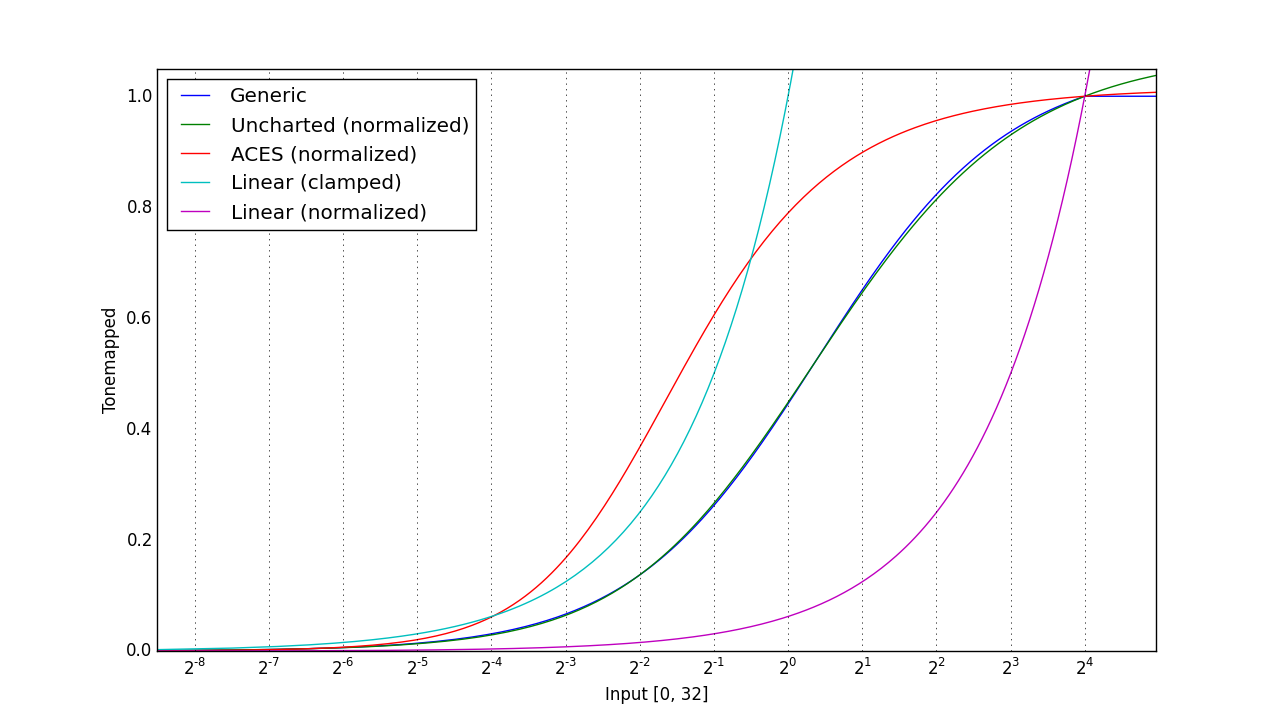
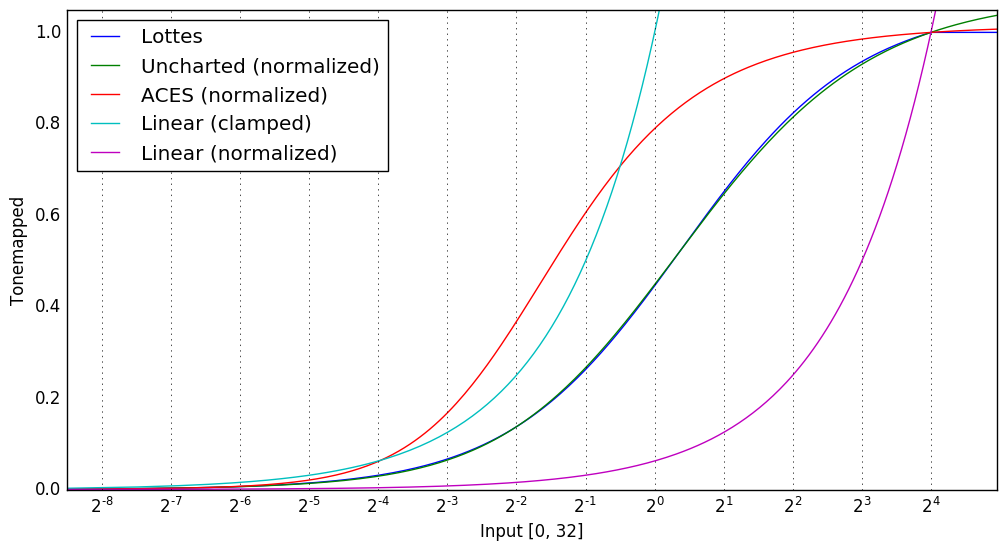
Made plot a bit tighter

diff --git a/tonemapper.py b/tonemapper.py
@@ -2,7 +2,7 @@ import matplotlib.pyplot as plt
 import math
 import numpy
 
-# Generic like in http://32ipi028l5q82yhj72224m8j.wpengine.netdna-cdn.com/wp-content/uploads/2016/03/GdcVdrLottes.pdf
+# Lottes Generic like in http://32ipi028l5q82yhj72224m8j.wpengine.netdna-cdn.com/wp-content/uploads/2016/03/GdcVdrLottes.pdf
 # but with corrections like in https://bartwronski.com/2016/09/01/dynamic-range-and-evs/comment-page-1/#comment-2360
 
 # Setting similar to Uncharted:
@@ -11,7 +11,7 @@ import numpy
 # mid_in = 0.33
 # mid_out = 0.18
 
-def generic(x, hdr_max):
+def lottes(x, hdr_max):
     a = 1.15 # contrast
     d = 0.995 # shoulder
 
@@ -63,10 +63,10 @@ def normalized_linear(x, hdr_max):
     return x / hdr_max
 
 # Plot the tonemapping curves
-plt.figure(figsize=(12.8, 7.2), dpi=120)
+plt.figure(figsize=(12, 6))
 
 color_in = []
-color_generic = []
+color_lottes = []
 color_uncharted = []
 color_aces = []
 color_linear = []
@@ -76,14 +76,14 @@ hdr_max = 16.0
 for x in numpy.logspace(-3, 5, num=256, base=2):
     color = x - math.pow(2, -3)
     color_in.append(color)
-    color_generic.append(generic(color, hdr_max))
+    color_lottes.append(lottes(color, hdr_max))
     #color_uncharted.append(uncharted(color))
     color_uncharted.append(normalized_uncharted(color, hdr_max))
     #color_aces.append(aces(color))
     color_aces.append(normalized_aces(color, hdr_max))
     color_linear.append(normalized_linear(color, hdr_max))
 
-plt.semilogx(color_in, color_generic, basex=2, label='Generic')
+plt.semilogx(color_in, color_lottes, basex=2, label='Lottes')
 plt.plot(color_in, color_uncharted, label='Uncharted (normalized)')
 plt.plot(color_in, color_aces, label='ACES (normalized)')
 plt.plot(color_in, color_in, label='Linear (clamped)')
@@ -94,13 +94,14 @@ plt.legend(loc=2)
 plt.xlabel('Input [0, 32]')
 plt.ylabel('Tonemapped')
 
-ax = plt.axes() 
+ax = plt.axes()
+
 ax.xaxis.grid()
 ax.tick_params(which='both', # Options for both major and minor ticks
                top='off', # turn off top ticks
                left='off', # turn off left ticks
                right='off',  # turn off right ticks
                bottom='off') # turn off bottom ticks
+# plt.show()                      
 
-plt.show()
-
+plt.savefig('tonemapper.png', bbox_inches='tight')
